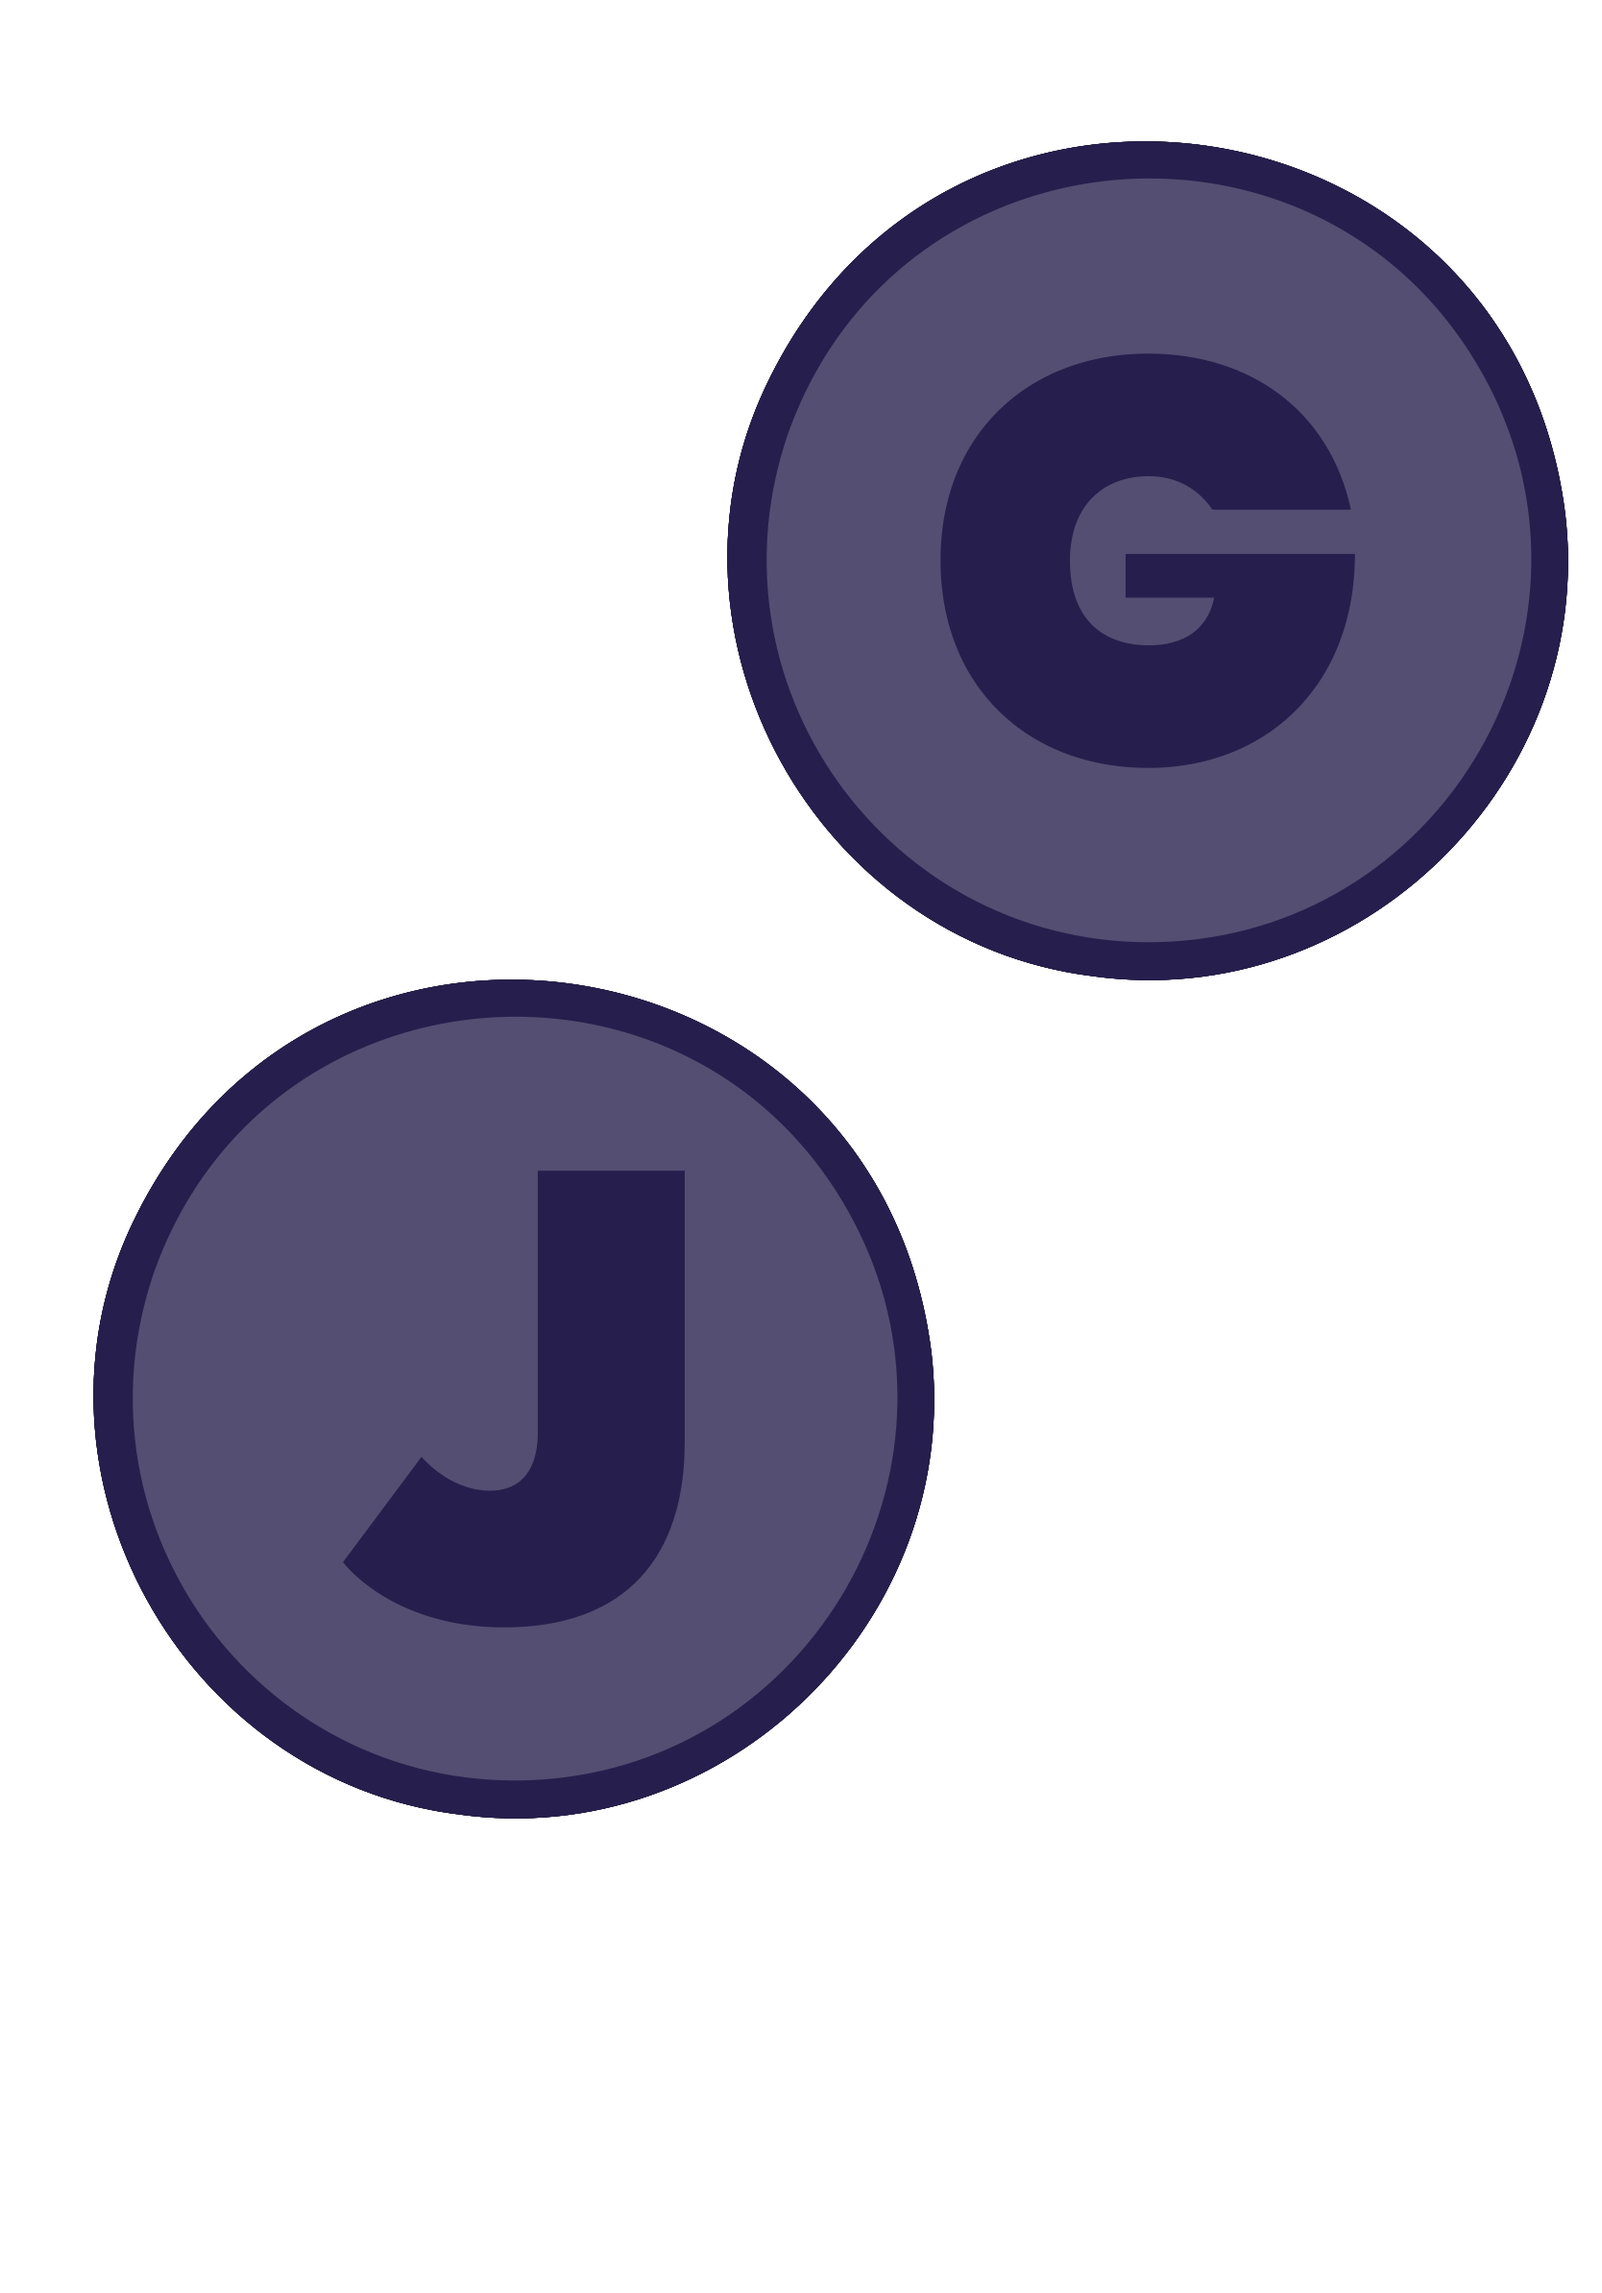
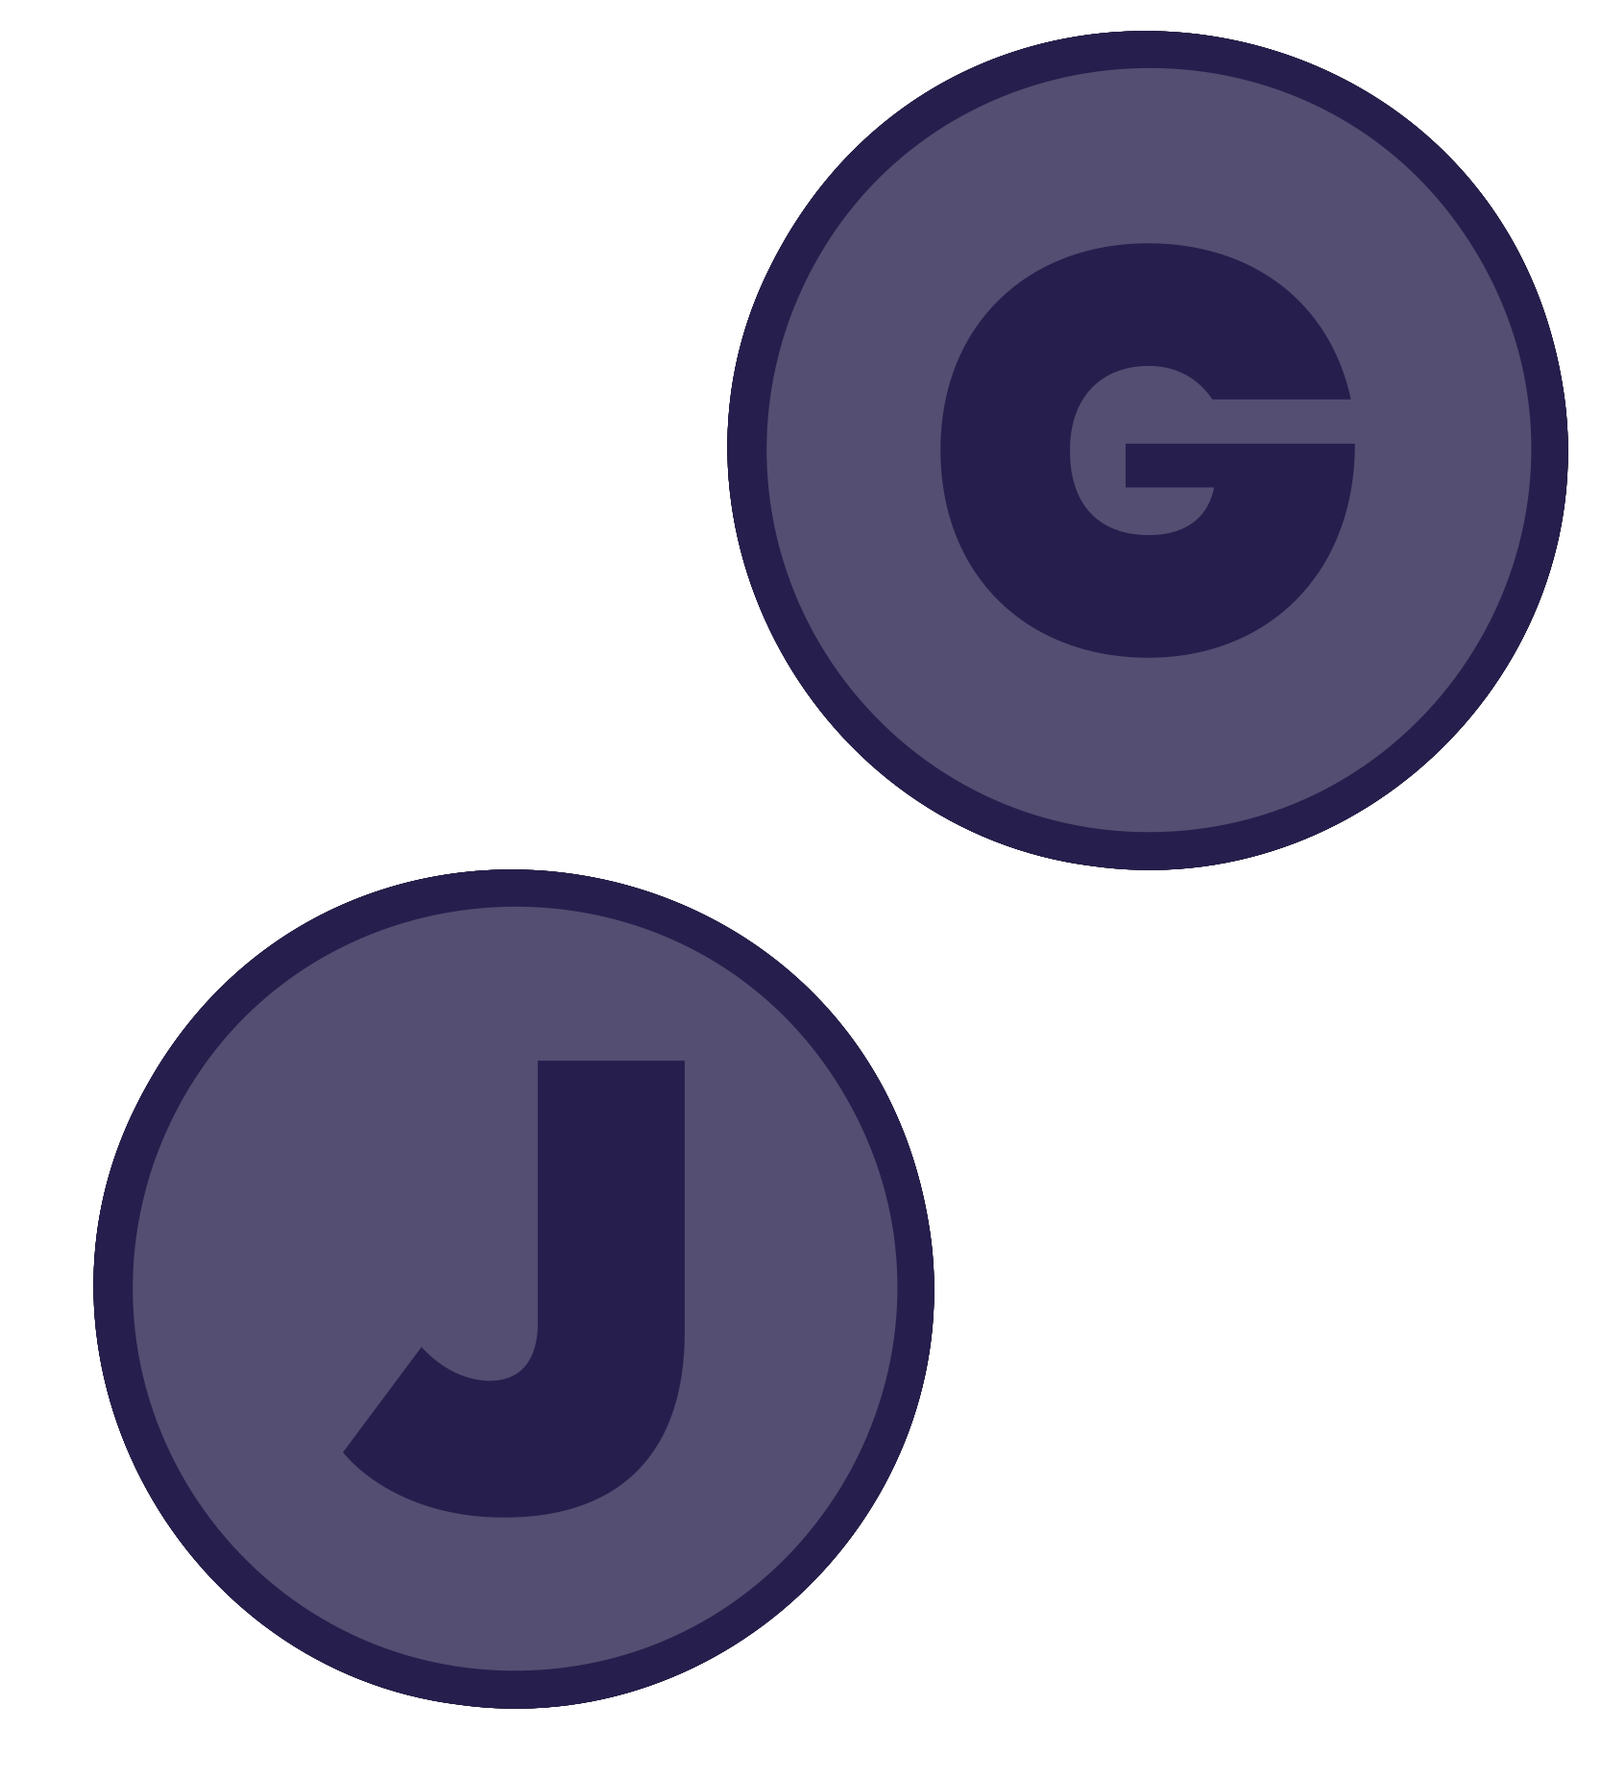
working

diff --git a/css/sticker.css b/css/sticker.css
@@ -56,6 +56,8 @@
     height: 100%;
     transition: var(--tran-05);
     /*background-color: blue;*/
+    display: inline-block;
+   /* outline: 10px solid red;*/
 }
 
 .game-screen {
@@ -75,24 +77,27 @@
     transition: var(--tran-05);
 }
 
-
-
-.dpad {
-    position: absolute;
-    font-size: clamp(40px, 12vw, 280px);
-    left: 15%;
-    top: 82%;
-    color: var(--game-border-color);
-    line-height: 1;
-    transform: translate(-50%, -50%);
-}
-
 .initial-buttons {
     position: absolute;
     width: 5vw;
-    left: 82%;
-    top: 76%;
-    transform: scale(2);
+    left: 85%;
+    top: 80.25%;
+    transform: translate(-50%, -50%) scale(2.2);
+}
+
+.dpad {
+    position: absolute;
+    max-width: 100%;
+    height: auto;
+    display: block;
+    font-display: block;
+    font-size: clamp(40px, 12vw, 280px);
+    text-align: center;
+    left: 15%;
+    top: 81%;
+    color: var(--game-border-color);
+    /*line-height: 1;*/
+    transform: translate(-50%, -50%);
 }
 
 .initial-buttons img,
@@ -102,13 +107,14 @@
     height: auto;
 }
 
+
 .pua {
     position: absolute;
     width: 5vw;
     opacity: 0.8;
     left: 87%;
     top: 18%;
-    transform: scale(8) rotate(-15deg);
+    transform: scale(3) rotate(-15deg);
 }
 
 .game-screen .text p {

diff --git a/index.html b/index.html
@@ -156,7 +156,7 @@
     </section>
 
     <section id="projects" class="projects">
-        <div class="text">Projects</div>
+        <div class="text">Featured Projects</div>
 
     </section>
 

diff --git a/css/style.css b/css/style.css
@@ -34,5 +34,5 @@
     padding: 0;
     box-sizing: border-box;
 
-    /*outline: 1px solid red;*/
+    outline: 1px solid red;
 }
